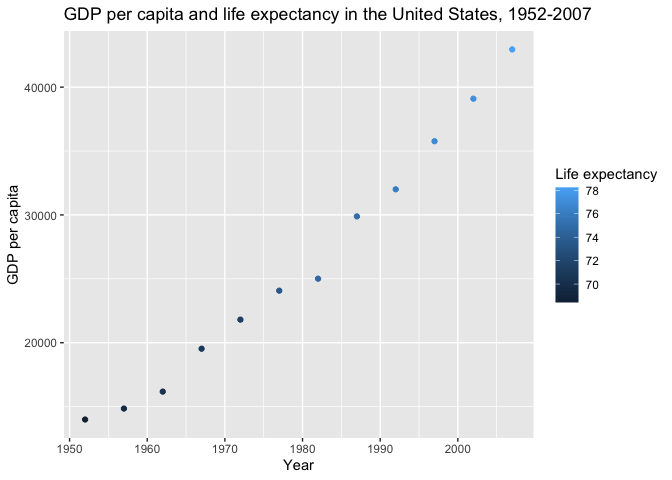
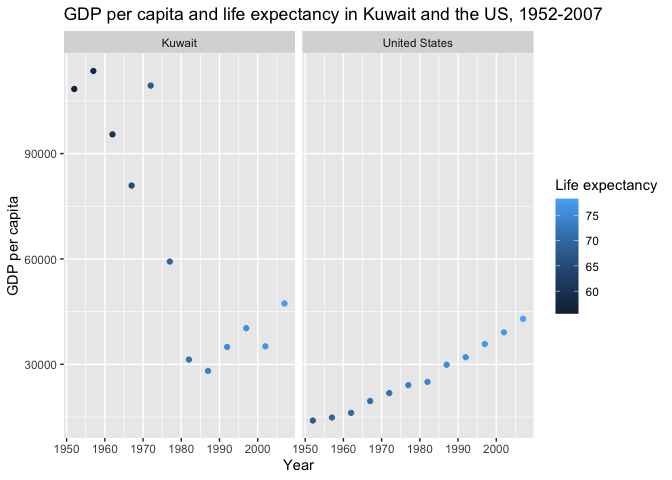
Gapminder v1.2 - more polished draft

diff --git a/c04-gapminder-assignment.md b/c04-gapminder-assignment.md
@@ -132,7 +132,7 @@ gapminder %>%
   ggplot(aes(gdpPercap, continent)) +
     geom_boxplot() +
     coord_trans(x = "log") +
-    labs(title = "GDP per capita by continent", x = "GDP per capita", y = "Continent")
+    labs(title = "GDP per capita by continent, 1952", x = "GDP per capita", y = "Continent")
 ```
 
 ![](c04-gapminder-assignment_files/figure-gfm/q2-task-1.png)<!-- -->
@@ -204,6 +204,7 @@ gapminder %>%
   filter(year == year_min | year == year_max) %>%
   ggplot(aes(gdpPercap, as.factor(year), fill = as.factor(year))) +
     geom_boxplot() +
+    scale_fill_discrete(name = "Year") +
     geom_point(data = outliers_1952, color = "orange") +
     coord_trans(x = "log") +    
     facet_grid(continent ~ .) +
@@ -240,6 +241,7 @@ How do GDP and life expectancy compare?
 ## TASK: Your first graph
 ggplot(gapminder, aes(gdpPercap, lifeExp)) +
   geom_point(aes(color = year)) +
+  scale_color_continuous(name = "Year") +
   coord_trans(x = "log") +
   geom_smooth(color = "orange") +
   labs(
@@ -253,7 +255,7 @@ ggplot(gapminder, aes(gdpPercap, lifeExp)) +
 
 ![](c04-gapminder-assignment_files/figure-gfm/q5-task1-1.png)<!-- -->
 
-**Observations**
+**Observations**:
 
   - As we might expect, increasing GDP per capita tends to mean an
     increased life expectancy, except at the very top values of GDP per
@@ -285,61 +287,150 @@ topGDP
     ## 5 Kuwait  Asia       1967    64.6  575003    80895.
     ## 6 Kuwait  Asia       1977    69.3 1140357    59265.
 
-**Observations** - All the GDP per capita values greater than $50,000
-are Kuwait. (I’m feeling smug. All those political science classes are
-paying off right now.) - At least the US didn’t turn out to be in this
-set, I guess.
+**Observations**:
+
+  - All the GDP per capita values greater than $50,000 are Kuwait. (I’m
+    feeling smug. All those political science classes are paying off
+    right now.)
+  - At least the US didn’t turn out to be in this set, I guess.
 
 So… What’s the trend in the US over time with respect to GDP and life
-expectancy?
+expectancy? And what about Kuwait?
 
 ``` r
 ## TASK: Your second graph
 gapminder %>%
-  filter(country == "United States") %>%
+  filter(country == "United States" | country == "Kuwait") %>%
   ggplot(aes(year, gdpPercap)) +
     geom_point(aes(color = lifeExp)) +
     scale_color_continuous(name = "Life expectancy") +
     labs(
-      title = "GDP per capita and life expectancy in the United States, 1952-2007",
+      title = "GDP per capita and life expectancy in Kuwait and the US, 1952-2007",
       x = "Year",
       y = "GDP per capita"
-    )
+    ) +
+  facet_grid(. ~ country)
 ```
 
 ![](c04-gapminder-assignment_files/figure-gfm/q5-task2-1.png)<!-- -->
 
-**Observations**
+**Observations**:
 
-  - Boring but good.
-  - Now I’m curious about Kuwait though.
+  - The US: Boring but good. Over time, we are pretty steadily
+    increasing our life expectancy as a country, as well as our GDP per
+    capita.
+  - Kuwait: Fascinating. Life expectancy increases pretty steadily over
+    the time period, but meanwhile GDP falls dramatically from the early
+    1970s to the mid 1980s, then starts climbing again. I wonder what
+    political changes were wrought in this time period to bring about
+    this effect? (I checked Wikipedia; the answer is an economic crisis,
+    first, and then involvement in several wars etc.)
+
+We’ve now investigated Kuwait and it’s an interesting one. It’s screwing
+up our x-axis, though. Let’s remove it from our consideration, for now:
+
+``` r
+## TASK: Your third graph
+gapminder %>%
+  filter(country != "Kuwait") %>%
+  ggplot(aes(gdpPercap, lifeExp)) +
+  geom_point(aes(color = year)) +
+  scale_color_continuous(name = "Year") +
+  #coord_trans(x = "log") +
+  geom_smooth(color = "orange") +
+  labs(
+    title = "GDP per capita and life expectancy",
+    x = "GDP per capita",
+    y = "Life expectancy"
+  )
+```
+
+    ## `geom_smooth()` using method = 'gam' and formula 'y ~ s(x, bs = "cs")'
+
+![](c04-gapminder-assignment_files/figure-gfm/q5-task3-1.png)<!-- -->
+
+**Observations**:
+
+  - Without Kuwait, I can make my GDP axis linear again. It seems GDP
+    per capita is a story of diminishing returns with respect to life
+    expectancy. We also have some interesting outliers far below the
+    curve; again I’m going to guess they’re oil-rich authoritarian
+    states, and then see if that’s true.
+
+<!-- end list -->
+
+``` r
+rich_but_unhealthy <-
+  gapminder %>%
+  filter(country != "Kuwait" & gdpPercap > 15000 & lifeExp < 65) %>%
+  arrange(country)
+
+rich_but_unhealthy
+```
+
+    ## # A tibble: 11 x 6
+    ##    country      continent  year lifeExp      pop gdpPercap
+    ##    <fct>        <fct>     <int>   <dbl>    <int>     <dbl>
+    ##  1 Bahrain      Asia       1972    63.3   230800    18269.
+    ##  2 Gabon        Africa     1977    52.8   706367    21746.
+    ##  3 Gabon        Africa     1982    56.6   753874    15113.
+    ##  4 Libya        Africa     1967    50.2  1759224    18773.
+    ##  5 Libya        Africa     1972    52.8  2183877    21011.
+    ##  6 Libya        Africa     1977    57.4  2721783    21951.
+    ##  7 Libya        Africa     1982    62.2  3344074    17364.
+    ##  8 Saudi Arabia Asia       1967    49.9  5618198    16903.
+    ##  9 Saudi Arabia Asia       1972    53.9  6472756    24837.
+    ## 10 Saudi Arabia Asia       1977    58.7  8128505    34168.
+    ## 11 Saudi Arabia Asia       1982    63.0 11254672    33693.
+
+**Observations**:
+
+  - These “rich but unhealthy” countries (per capita GDP greater than
+    15,000, but life expectancy less than 65) are (excluding Kuwait,
+    which would fall in this set but has already been covered): Bahrain;
+    Gabon; Libya; and Saudi Arabia.
+  - I am familiar with Saudi Arabia, Libya, and Bahrain as oil-rich
+    authoritarian nations with a wealthy elite and the bulk of the
+    population being much less wealthy, but I knew little about Gabon.
+  - Gabon (during the time period it fit these criteria, 1977-1982) was
+    a one-party state with an “elected” president who had initially been
+    elected in 1961 (following Gabon’s liberation from French colonial
+    rule in 1960). This president, President M’ba, subsequently
+    suppressed the press, curtailed freedoms, and pushed out all other
+    political parties, eventually dissolving the national assembly. With
+    the help of the French, he survived an army coup in 1964. After his
+    death in 1967, he was succeeded by his vice president, a fellow
+    referred to as “Bongo” (Omar Bongo Ondimba), who officially declared
+    Gabon a one-party state in 1968. (This situation seems unchanged
+    throughout this time period.) Bongo eventually died in 2009, and was
+    succeeded by his son, Ali Bongo Ondimba (also now referred to as
+    Bongo). Gabon’s economy is dominated by oil.
 
 <!-- end list -->
 
 ``` r
 ## TASK: Your third graph
-
 gapminder %>%
-  filter(country == "Kuwait") %>%
-  ggplot(aes(year, gdpPercap)) +
-    geom_point(aes(color = lifeExp)) +
-    scale_color_continuous(name = "Life expectancy") +
-    labs(
-      title = "GDP per capita and life expectancy in Kuwait, 1952-2007",
-      x = "Year",
-      y = "GDP per capita"
-    )
+  filter(country != "Kuwait") %>%
+  ggplot(aes(gdpPercap, lifeExp)) +
+  geom_point(aes(color = year)) +
+  scale_color_continuous(name = "Year") +
+  #coord_trans(x = "log") +
+  geom_smooth(color = "orange") +
+  geom_point(data = rich_but_unhealthy, color = "red") +
+  labs(
+    title = "GDP per capita and life expectancy",
+    x = "GDP per capita",
+    y = "Life expectancy"
+  )
 ```
 
-![](c04-gapminder-assignment_files/figure-gfm/q5-task3-1.png)<!-- -->
+    ## `geom_smooth()` using method = 'gam' and formula 'y ~ s(x, bs = "cs")'
 
-**Observations**
+![](c04-gapminder-assignment_files/figure-gfm/q5-task3,%20revisited-1.png)<!-- -->
 
-  - Fascinating. Life expectancy increases pretty steadily over the time
-    period, but meanwhile GDP falls dramatically from the early 1970s to
-    the mid 1980s, then starts climbing again.
-  - I wonder what political changes were wrought in this time period to
-    bring about this effect?
+The red points on the chart above are these “rich but unhealthy” nations
+that I filtered somewhat arbitrarily out of the dataset.
 
 <!-- include-rubric -->
 
